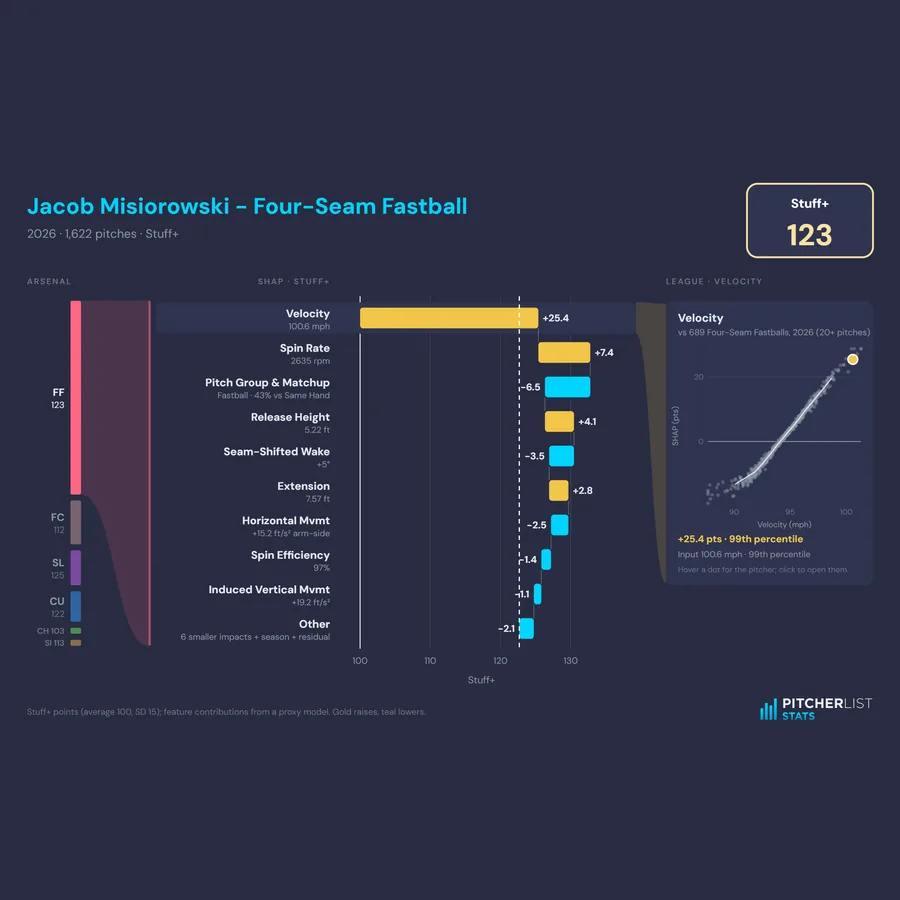
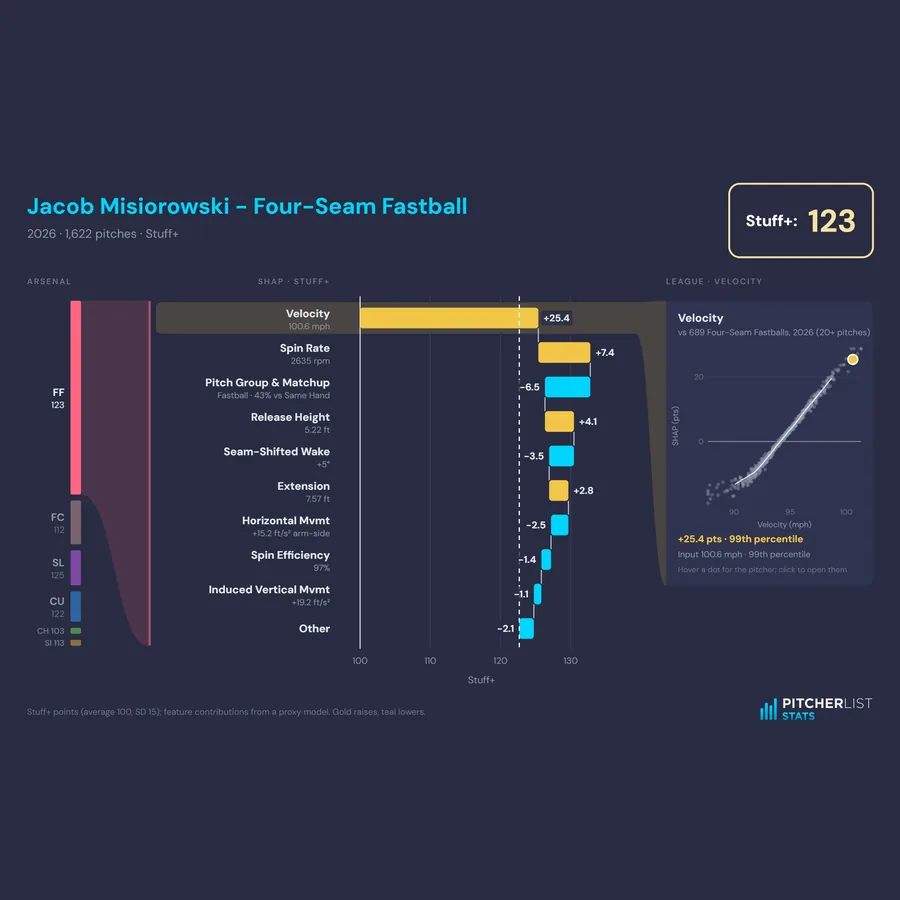
Homepage: Model Drilldown tile redrawn with the current figure
The new KPI box, funnel-coloured row highlight and flush league card. Tile ?v=2.

diff --git a/index.html b/index.html
@@ -136,7 +136,7 @@
 								</article>
 									<article class="style1">
 									<span class="image">
-										<img src="images/tile-model-drilldown.webp?v=1" srcset="images/tile-model-drilldown-720.webp?v=1 720w, images/tile-model-drilldown.webp?v=1 900w" sizes="(max-width: 480px) 100vw, (max-width: 980px) 50vw, 380px" width="900" height="900" alt="Jacob Misiorowski's 2026 four-seam fastball, Stuff+ SHAP waterfall" />
+										<img src="images/tile-model-drilldown.webp?v=2" srcset="images/tile-model-drilldown-720.webp?v=2 720w, images/tile-model-drilldown.webp?v=2 900w" sizes="(max-width: 480px) 100vw, (max-width: 980px) 50vw, 380px" width="900" height="900" alt="Jacob Misiorowski's 2026 four-seam fastball, Stuff+ SHAP waterfall" />
 									</span>
 									<a href="/model-drilldown/">
 										<h2>Model Drilldown</h2>
